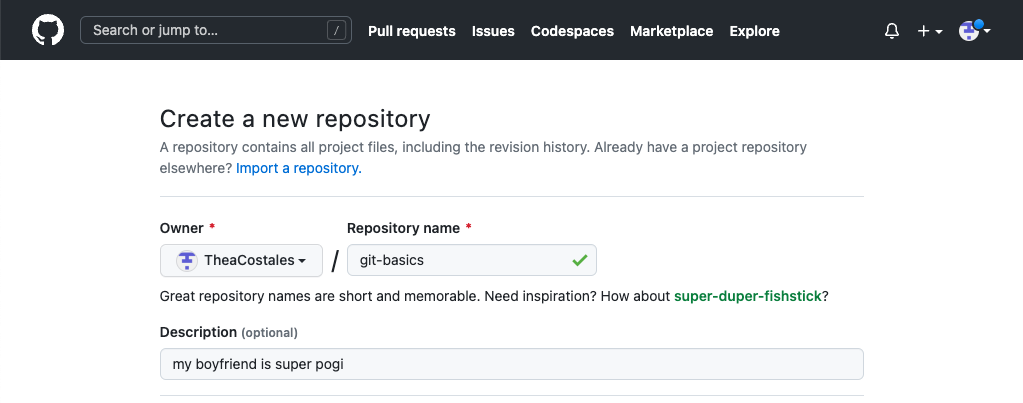
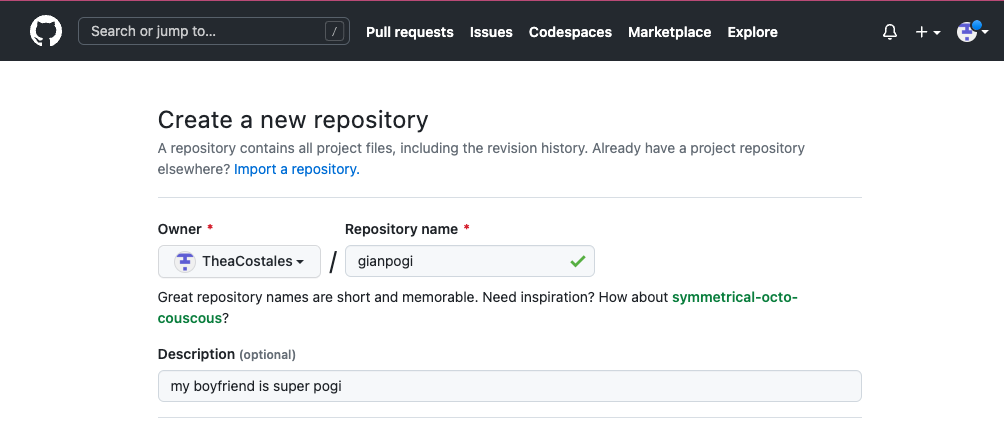
updated commit

diff --git a/git/basics/how-to-create-a-repository-in-github.md b/git/basics/how-to-create-a-repository-in-github.md
@@ -18,7 +18,7 @@
 ![image10_1a4384e5fa.png](images%2Fimage10_1a4384e5fa.png)
 
 # Creating a repository
-## Initializing the Project
+
 1. Go to GitHub account
 2. Click on the + button
 3. Select a new repository 
@@ -33,7 +33,39 @@
     ![github3.png](images%2Fgithub3.png)
 8. Click Create Repository 
 
-## Creating a Project 
-Clone the remote repository to the local directory. Github provides a detailed guide on how to clone, add remote and initialize a Git project.
-![github4.png](images%2Fgithub4.png)
+### Creating a Project 
 
+1. Clone the remote repository to the local directory. Github provides a detailed guide on how to clone, add remote and initialize a Git project.
+![github4.png](images%2Fgithub4.png)
+2. Following the second set of steps since we will push an existing repository.
+3. Go to PyCharm 
+4. Create a New Project
+
+*(Note: repository name from GitHub should be the same as the project name created on pycharm as your local directory.)*
+![pycharm1.png](images%2Fpycharm1.png)
+
+5. Open the terminal
+6. Initialize Git using the command - git init
+```
+git init
+
+(venv) (base) mariatheresacostales@marias-air gianpogi % git init
+hint: Using 'master' as the name for the initial branch. This default branch name
+hint: is subject to change. To configure the initial branch name to use in all
+hint: of your new repositories, which will suppress this warning, call:
+hint: 
+hint:   git config --global init.defaultBranch <name>
+hint: 
+hint: Names commonly chosen instead of 'master' are 'main', 'trunk' and
+hint: 'development'. The just-created branch can be renamed via this command:
+hint: 
+hint:   git branch -m <name>
+Initialized empty Git repository in /Users/mariatheresacostales/PycharmProjects/gianpogi/.git/
+(venv) (base) mariatheresacostales@marias-air gianpogi % 
+
+```
+7. Check the status by using the command - git status
+```
+git status
+
+```
